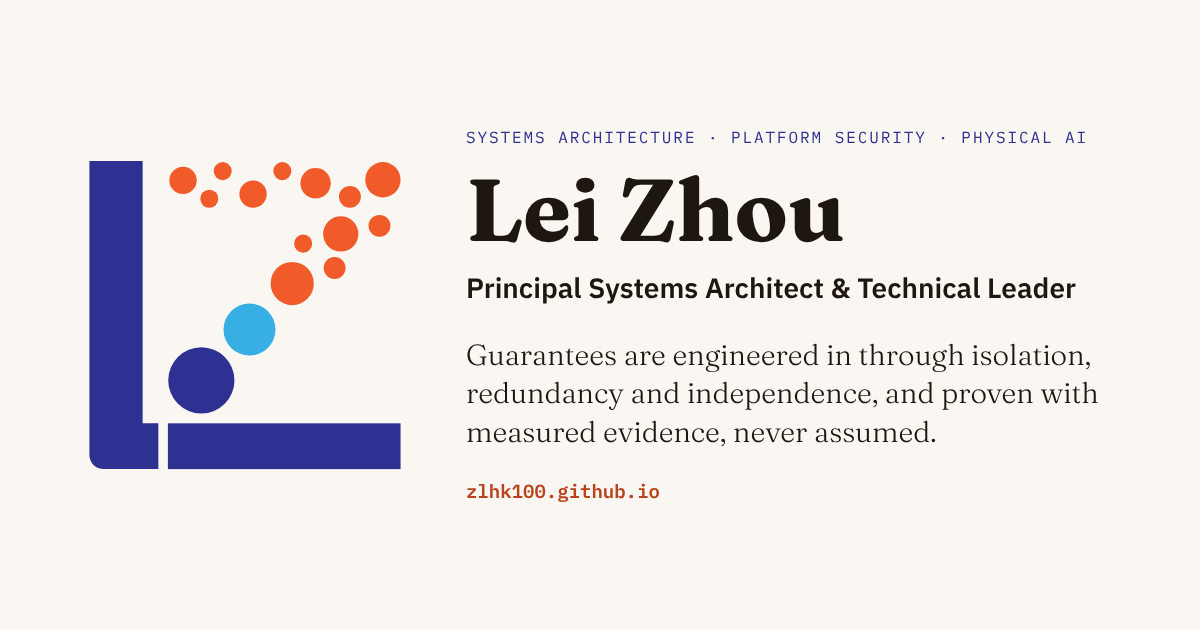
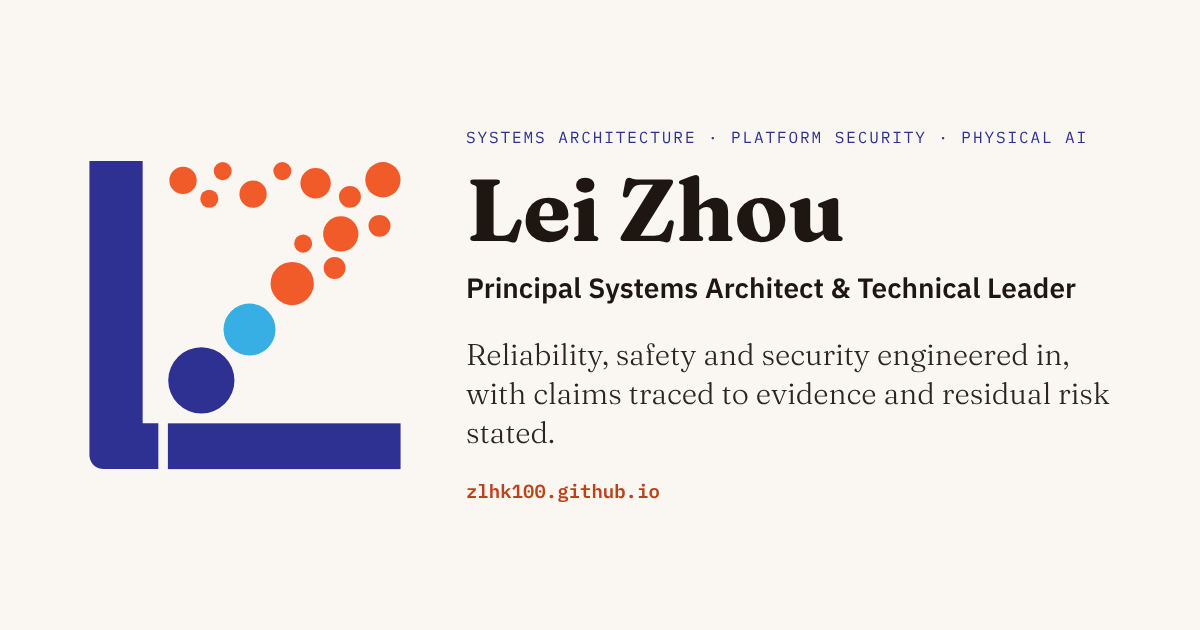
Align site claims with published evidence
Narrow the hero and share-card wording, the WCET attribution line, and
the MCIB and anchorstamp status lines to what the paper, AGL deck and
project READMEs support.

Correct the primer's tail ratios and isolation claims against the paper's
tables, note the later attribution proof of concept, and add a dated
correction note.

Changed region(s): [[0.37, 0.5429, 0.925, 0.7238]]

diff --git a/library/mixed-criticality-primer.html b/library/mixed-criticality-primer.html
@@ -136,15 +136,15 @@ article em{font-style:italic}
 </section>
 
 <section>
-<h2 id="what-earlier-measurement-shows">What earlier measurement shows</h2><p>This section summarises earlier work by the same author, not MCIB results. MCIB has produced no measurements yet and shares no code with the work below. That work is what inspired this project (<a href="https://doi.org/10.5281/zenodo.20967588">DOI 10.5281/zenodo.20967588</a>) evaluated AGL-RT with Linux PREEMPT_RT 6.12 on Arm Cortex-A72 (BCM2711, Raspberry Pi 4B), across five POSIX RTOS primitives, four stressor profiles, and 500,000 iterations per configuration.</p><p><strong>The steady state is not the problem. The tail is.</strong> Medians sit where a real-time engineer would want them — task switching around 2.5 µs, semaphore preemption around 1.5 µs, thread-mode IPC around 5.4 µs — and they barely move across stressor profiles. P99.9 across all five metrics stays under 57 µs.</p><p>Maxima tell a different story. Task-switch latency reaches 140–168 µs against a 2.5 µs median. Process-mode inter-task messaging reaches 595 µs, three orders of magnitude above its median. Mutex acquisition under balanced stress shows a max/min ratio above 1,100×.</p><p>Two conclusions follow, and both matter more than the numbers.</p><p><strong>P99.9 is not a WCET bound.</strong> A percentile that looks comfortable can sit two orders of magnitude below the observed maximum. Any timing argument resting on P99.9 alone is resting on sand.</p><p><strong>Isolation policy is not optional, and it is not partial.</strong> The published work found that the full policy set — CPU isolation, tickless operation, RCU offloading, RT throttling disabled, and interrupt affinity — must be applied together. Omitting any one still produces spikes two to three orders of magnitude above median. Isolation without tickless configuration, for instance, still admits timer-tick interrupts on the supposedly isolated core.</p><p>With the full policy enforced, tail behaviour is bounded.</p>
+<h2 id="what-earlier-measurement-shows">What earlier measurement shows</h2><p>This section summarises earlier work by the same author, not MCIB results. MCIB has produced no measurements yet and shares no code with the work below. That work is what inspired this project (<a href="https://doi.org/10.5281/zenodo.20967588">DOI 10.5281/zenodo.20967588</a>) evaluated AGL-RT with Linux PREEMPT_RT 6.12 on Arm Cortex-A72 (BCM2711, Raspberry Pi 4B), across five POSIX RTOS primitives, four stressor profiles, and 500,000 iterations per configuration.</p><p><strong>The steady state is not the problem. The tail is.</strong> Medians sit where a real-time engineer would want them — task switching around 2.5 µs, semaphore preemption around 1.5 µs, thread-mode IPC around 5.4 µs — and they barely move across stressor profiles. P99.9 across all five metrics stays under 57 µs.</p><p>Maxima tell a different story. Task-switch latency reaches 140–168 µs against a 2.5 µs median. Process-mode inter-task messaging reaches 595 µs, about 90× its median. Mutex acquisition under balanced stress shows a max/min ratio above 1,100×.</p><p>Two conclusions follow, and both matter more than the numbers.</p><p><strong>P99.9 is not a WCET bound.</strong> A percentile that looks comfortable can sit well over an order of magnitude below the observed maximum (about 38× in the published process-messaging data). Any timing argument resting on P99.9 alone is resting on sand.</p><p><strong>Isolation policy is not optional, and it is not partial.</strong> The published work reports that CPU isolation, tickless operation, RCU offloading, disabled RT throttling and interrupt affinity need to be applied together, and that isolation without tickless configuration still admits timer-tick interrupts on the supposedly isolated core. It does not tabulate per-omission comparison runs, so read this as configuration guidance rather than a measured effect size.</p><p>The maxima above come from runs the paper describes as isolated. They are observed values, not a proven bound, and the paper includes no non-isolated baseline for comparison.</p>
 </section>
 
 <section>
-<h2 id="what-is-not-yet-established">What is not yet established</h2><p>The published work measured <em>that</em> the tails occur and <em>that</em> isolation policy bounds them. It does not establish the microarchitectural mechanism behind each outlier.</p><p>The mutex result under memory stress is consistent with cache-line eviction by the aggressor, and cross-core acquisition cost is consistent with a coherency round-trip over the interconnect. Both are hypotheses supported by the shape of the data, not attributed findings. Correlating these outliers with hardware performance counters is named in that paper as future work. That open question is what MCIB was inspired by — though MCIB addresses a different problem, inference-plus-control workloads on shared silicon, and needs its own harness to do it.</p><p>This distinction is the whole point of the project. Knowing a control loop occasionally takes 168 µs tells you that you have a problem. Knowing <em>why</em> tells you whether configuration fixes it, whether hardware partitioning fixes it, or whether nothing will.</p>
+<h2 id="what-is-not-yet-established">What is not yet established</h2><p>The published work measured <em>that</em> the tails occur under its stated isolation policy. It does not establish the microarchitectural mechanism behind each outlier.</p><p>The mutex result under memory stress is consistent with cache-line eviction by the aggressor, and cross-core acquisition cost is consistent with a coherency round-trip over the interconnect. Both are hypotheses supported by the shape of the data, not attributed findings. Correlating these outliers with hardware performance counters is named in that paper as future work. A later proof of concept, presented at AGL All Member Meeting 2026, applied PMU and ftrace correlation and reported preliminary per-metric attributions; it does not close the question. That open question is what MCIB was inspired by — though MCIB addresses a different problem, inference-plus-control workloads on shared silicon, and needs its own harness to do it.</p><p>This distinction is the whole point of the project. Knowing a control loop occasionally takes 168 µs tells you that you have a problem. Knowing <em>why</em> tells you whether configuration fixes it, whether hardware partitioning fixes it, or whether nothing will.</p>
 </section>
 
 <section>
-<h2 id="two-isolation-architectures-often-conflated">Two isolation architectures, often conflated</h2><p>Discussions of mixed-criticality separation tend to blur two distinct inter-domain transports. They are not interchangeable.</p><p><strong>RPMsg over remoteproc</strong> is the pragmatic near-term choice for a bare-metal or RTOS domain on a separate core. Well-trodden, widely supported in vendor BSPs, less abstraction.</p><p><strong>VirtIO</strong> is the direction aligned with SOAFEE and hypervisor-based consolidation. It buys standardisation and portability at the cost of an abstraction layer whose overhead must be measured against the control domain's budget, not assumed away.</p><p>Both are legitimate; the deciding input should be measured inter-domain overhead against the actual deadline.</p><p>Two Arm mechanisms sit underneath either choice. <strong>SMMU</strong> provides spatial isolation, so the inference domain cannot write into control-domain memory. <strong>MPAM</strong> or <strong>cache colouring</strong> provides temporal partitioning of cache and bandwidth, so the inference domain cannot starve the control domain's working set. MPAM is available on Armv8.4 automotive-class parts and is identified in the published work as a candidate enforcement layer for the residual cache pathway that CPU isolation alone does not close.</p><p>Spatial isolation without temporal partitioning is a common and incomplete configuration. Memory protection does not prevent a cache eviction.</p>
+<h2 id="two-isolation-architectures-often-conflated">Two isolation architectures, often conflated</h2><p>Discussions of mixed-criticality separation tend to blur two distinct inter-domain transports. They are not interchangeable.</p><p><strong>RPMsg over remoteproc</strong> is the pragmatic near-term choice for a bare-metal or RTOS domain on a separate core. Well-trodden, widely supported in vendor BSPs, less abstraction.</p><p><strong>VirtIO</strong> is the direction aligned with SOAFEE and hypervisor-based consolidation. It buys standardisation and portability at the cost of an abstraction layer whose overhead must be measured against the control domain's budget, not assumed away.</p><p>Both are legitimate; the deciding input should be measured inter-domain overhead against the actual deadline.</p><p>Two Arm mechanisms sit underneath either choice. <strong>SMMU</strong> provides spatial isolation, so the inference domain cannot write into control-domain memory. <strong>MPAM</strong> or <strong>cache colouring</strong> provides temporal partitioning of cache and bandwidth, so the inference domain cannot starve the control domain's working set. MPAM is an optional Arm architecture extension, so support has to be confirmed for each part. The published work identifies it as a candidate enforcement layer for the residual cache pathway that CPU isolation alone does not close.</p><p>Spatial isolation without temporal partitioning is a common and incomplete configuration. Memory protection does not prevent a cache eviction.</p>
 </section>
 
 <section>
@@ -164,7 +164,7 @@ article em{font-style:italic}
   <span class="label">Source and licence</span>
   <h2>About this note</h2>
   <div class="attrib">
-    <p>Written by Lei Zhou as a background note for <a href="https://github.com/zlhk100/physical-ai-mixed-criticality">MCIB</a>. Text © 2026 Linaro Ltd., licensed <a href="https://creativecommons.org/licenses/by/4.0/">CC BY 4.0</a>. <a href="https://github.com/zlhk100/physical-ai-mixed-criticality/blob/main/docs/mixed-criticality-primer.md">Original text</a>; lightly edited for the web (formatting, links and one spelling fix).</p>
+    <p>Written by Lei Zhou as a background note for <a href="https://github.com/zlhk100/physical-ai-mixed-criticality">MCIB</a>. Text © 2026 Linaro Ltd., licensed <a href="https://creativecommons.org/licenses/by/4.0/">CC BY 4.0</a>. <a href="https://github.com/zlhk100/physical-ai-mixed-criticality/blob/main/docs/mixed-criticality-primer.md">Original text</a>; edited for the web (formatting, links and one spelling fix). Corrected 8 November 2026: tail ratios now match the paper’s tables, isolation claims are limited to what its data shows, and later attribution work is noted.</p>
     <p>Regulatory dates reflect the position as of September 2026 and are provided for orientation, not as legal advice. Verify against the current official text before relying on them.</p>
   </div>
   <div class="more"><a href="https://doi.org/10.5281/zenodo.20967588">Benchmark paper (Zenodo)</a><a href="https://github.com/zlhk100/physical-ai-mixed-criticality">MCIB on GitHub</a><a href="../feed.xml">Follow updates (Atom feed)</a></div>

diff --git a/index.html b/index.html
@@ -10,7 +10,7 @@
 <meta property="og:type" content="website">
 <meta property="og:url" content="https://zlhk100.github.io/">
 <meta property="og:title" content="Lei Zhou — Principal Systems Architect & Technical Leader">
-<meta property="og:description" content="Mixed-criticality virtualisation, full-stack platform security and Physical AI. Reliability, safety and security engineered in and demonstrated with measured evidence.">
+<meta property="og:description" content="Mixed-criticality virtualisation, full-stack platform security and Physical AI. Reliability, safety and security engineered in, with claims traced to evidence and residual risk stated.">
 <meta property="og:image" content="https://zlhk100.github.io/assets/og-card.png">
 <meta name="twitter:card" content="summary_large_image">
 <link rel="alternate" type="application/atom+xml" title="Lei Zhou — updates" href="feed.xml">
@@ -195,7 +195,7 @@ footer .wrap{display:flex;flex-wrap:wrap;justify-content:space-between;gap:8px 2
   <p class="role">Principal Systems Architect &amp; Technical Leader</p>
   <p class="where">Toronto area, Canada</p>
 
-  <p class="thesis">Reliability, safety and security are engineered in, by design and by disciplined, traceable process: isolation, diverse redundancy and independence that no single fault can break, demonstrated with measured evidence, never assumed.</p>
+  <p class="thesis">Reliability, safety and security are engineered in, by design and by disciplined, traceable process: isolation, diverse redundancy and analysed independence, with claims traced to evidence and residual risk stated.</p>
 
   <p class="intro">I’m a systems architect and player-coach technical leader for embedded, edge and cloud platforms where reliability, security and predictable performance are acceptance criteria, not aspirations.</p>
 
@@ -256,9 +256,9 @@ footer .wrap{display:flex;flex-wrap:wrap;justify-content:space-between;gap:8px 2
     <p>A safety-relevant instrument cluster and an Android Automotive infotainment guest sharing one Arm SoC and one GPU under a type-1 hypervisor. Led the guest graphics move to gfxstream (Vulkan, GLES via ANGLE, zero-copy rendering over VirtIO-GPU) and benchmark-led optimisation. Met the customer’s virtualisation-overhead target and reached parity with the incumbent stack, and supervised the GPU-arbitration track that keeps the instrument cluster free from interference.</p>
   </div>
   <div class="item">
-    <h3>WCET benchmark and outlier attribution for real-time Linux</h3>
+    <h3>Worst-case latency benchmark and outlier attribution for real-time Linux</h3>
     <div class="meta">Linaro · conceived and led</div>
-    <p>An open-source framework that traces every class of latency outlier in Linux PREEMPT_RT to its root cause; 99.1% of task-switching outliers came from kernel non-preemptibility. It became Linaro’s first automotive benchmark capability and the technical foundation of its first Tier-1 automotive engagement.</p>
+    <p>A benchmark framework for five RTOS primitives under Linux PREEMPT_RT, with PMU and ftrace analysis to attribute latency outliers. In a 400K-iteration task-switching proof of concept, 99.1% of the top ~1% of samples had no IRQ or PMU explanation and were assigned to kernel software paths. It became Linaro’s first automotive benchmark capability and the technical foundation of its first Tier-1 automotive engagement.</p>
     <div class="more"><a href="https://doi.org/10.5281/zenodo.20967588">Paper</a><a href="https://doi.org/10.5281/zenodo.20970757">Slides</a></div>
   </div>
   <div class="item">
@@ -297,13 +297,13 @@ footer .wrap{display:flex;flex-wrap:wrap;justify-content:space-between;gap:8px 2
   <h2>Current projects</h2>
   <div class="item">
     <h3>MCIB: Mixed-Criticality Interference Benchmark</h3>
-    <p>An open, platform-neutral specification for attributing interference between AI inference and real-time control on shared silicon: an interference taxonomy, an attribution protocol and a results schema with mandatory provenance. The harness is validated on a Raspberry Pi 4B under PREEMPT_RT; the first measurement campaign is planned on Renesas R-Car V4H.</p>
-    <div class="tags"><span class="tag">Apache-2.0</span><span class="tag">CC BY 4.0</span><span class="tag">PREEMPT_RT</span></div>
+    <p>An open, platform-neutral specification for attributing interference between AI inference and real-time control on shared silicon: an interference taxonomy, an attribution protocol and a results schema with mandatory provenance. Current status: specification and plan, with no measurements yet; the first measurement campaign is planned on Renesas R-Car V4H.</p>
+    <div class="tags"><span class="tag">Apache-2.0</span><span class="tag">CC BY 4.0</span><span class="tag">© Linaro Ltd.</span><span class="tag">PREEMPT_RT</span></div>
     <div class="more"><a href="https://github.com/zlhk100/physical-ai-mixed-criticality">GitHub repository</a><a href="library/mixed-criticality-primer.html">Background primer</a><a href="feed.xml">Follow updates</a></div>
   </div>
   <div class="item">
     <h3>anchorstamp: attested execution evidence for AI agents</h3>
-    <p>Checks what an AI agent claims it did against what an independent observer on the platform recorded, using signed, hash-chained records. The Linux kernel-audit proof of concept detects forged claims and unreported actions across 11 live adversarial scenarios.</p>
+    <p>Checks what an AI agent claims it did against what an independent observer on the platform recorded, using signed, hash-chained records. A Linux kernel-audit proof of concept, run on one laptop across 11 live scenarios, flagged forged claims and unreported actions.</p>
     <div class="tags"><span class="tag">Rust</span><span class="tag">MIT / Apache-2.0</span><span class="tag">Spec part 1 published</span></div>
     <div class="more"><a href="https://github.com/zlhk100/anchorstamp">GitHub repository</a><a href="https://medium.com/@zlhk100/the-agent-you-cant-audit-why-agentic-ai-needs-a-hardware-root-e4187b07ba9e">The Agent You Can’t Audit</a></div>
   </div>
